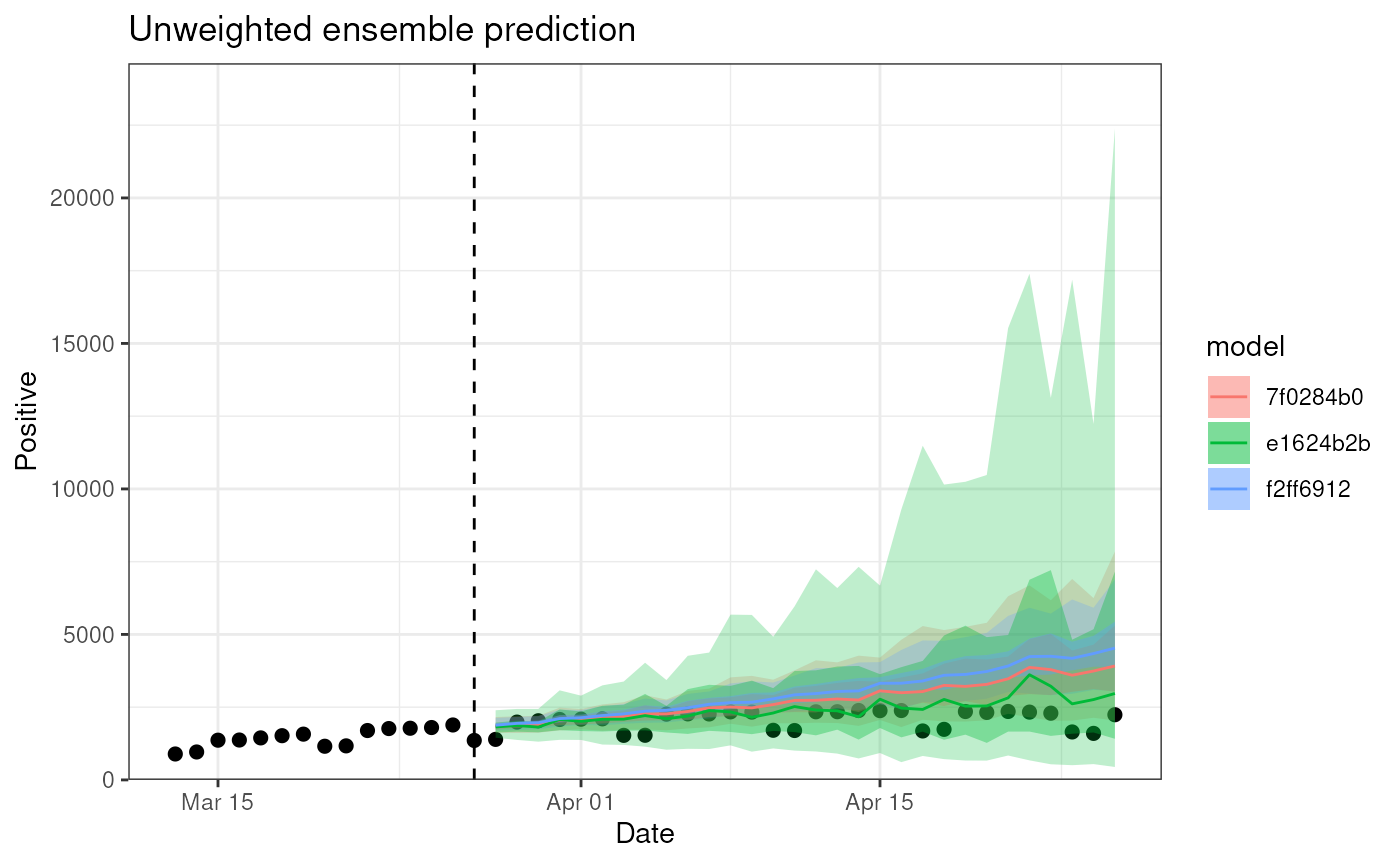
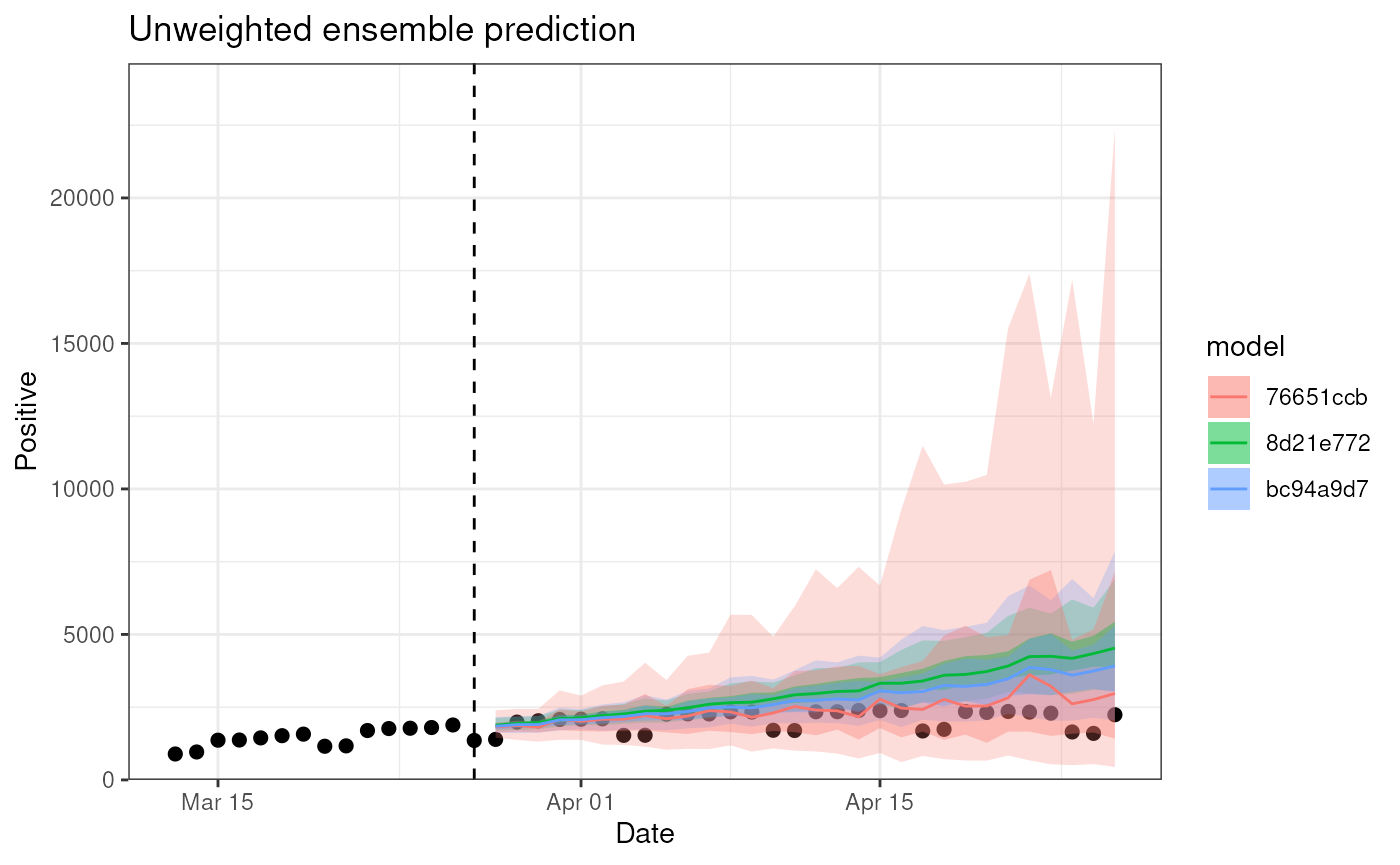
Deploying to gh-pages from @ ssi-dk/diseasy@3bf17232b9eb8c1114de46036d7c715ef52b2b88 🚀

Changed region(s): [[0.3379, 0.2185, 0.7986, 0.9052], [0.8907, 0.4994, 0.9829, 0.5931], [0.9214, 0.437, 0.9829, 0.4682]]

diff --git a/articles/SEIR-initialisation.html b/articles/SEIR-initialisation.html
@@ -424,16 +424,16 @@ a reduced probability of testing during weekends.</li>
 <span><span class="co">#&gt; <span style="color: #949494;"># A tibble: 1,500 × 6</span></span></span>
 <span><span class="co">#&gt;    date       age_group variant n_infected n_positive_simple n_positive</span></span>
 <span><span class="co">#&gt;    <span style="color: #949494; font-style: italic;">&lt;date&gt;</span>     <span style="color: #949494; font-style: italic;">&lt;chr&gt;</span>     <span style="color: #949494; font-style: italic;">&lt;chr&gt;</span>        <span style="color: #949494; font-style: italic;">&lt;dbl&gt;</span>             <span style="color: #949494; font-style: italic;">&lt;dbl&gt;</span>      <span style="color: #949494; font-style: italic;">&lt;dbl&gt;</span></span></span>
-<span><span class="co">#&gt; <span style="color: #BCBCBC;"> 1</span> 2020-01-03 60+       WT            17.2                 7          7</span></span>
-<span><span class="co">#&gt; <span style="color: #BCBCBC;"> 2</span> 2020-01-04 60+       WT            36.8                26         23</span></span>
-<span><span class="co">#&gt; <span style="color: #BCBCBC;"> 3</span> 2020-01-05 60+       WT            49.1                26         19</span></span>
-<span><span class="co">#&gt; <span style="color: #BCBCBC;"> 4</span> 2020-01-06 60+       WT            57.4                34         39</span></span>
-<span><span class="co">#&gt; <span style="color: #BCBCBC;"> 5</span> 2020-01-07 60+       WT            64.4                47         47</span></span>
-<span><span class="co">#&gt; <span style="color: #BCBCBC;"> 6</span> 2020-01-08 60+       WT            71.6                44         47</span></span>
-<span><span class="co">#&gt; <span style="color: #BCBCBC;"> 7</span> 2020-01-09 60+       WT            79.2                55         59</span></span>
-<span><span class="co">#&gt; <span style="color: #BCBCBC;"> 8</span> 2020-01-10 60+       WT            87.3                61         64</span></span>
-<span><span class="co">#&gt; <span style="color: #BCBCBC;"> 9</span> 2020-01-11 60+       WT            96.0                59         47</span></span>
-<span><span class="co">#&gt; <span style="color: #BCBCBC;">10</span> 2020-01-12 60+       WT           105.                 83         67</span></span>
+<span><span class="co">#&gt; <span style="color: #BCBCBC;"> 1</span> 2020-01-03 30-59     WT            64.2                37         41</span></span>
+<span><span class="co">#&gt; <span style="color: #BCBCBC;"> 2</span> 2020-01-04 30-59     WT           136.                 85         64</span></span>
+<span><span class="co">#&gt; <span style="color: #BCBCBC;"> 3</span> 2020-01-05 30-59     WT           179.                107         79</span></span>
+<span><span class="co">#&gt; <span style="color: #BCBCBC;"> 4</span> 2020-01-06 30-59     WT           203.                136        138</span></span>
+<span><span class="co">#&gt; <span style="color: #BCBCBC;"> 5</span> 2020-01-07 30-59     WT           221.                137        144</span></span>
+<span><span class="co">#&gt; <span style="color: #BCBCBC;"> 6</span> 2020-01-08 30-59     WT           239.                159        169</span></span>
+<span><span class="co">#&gt; <span style="color: #BCBCBC;"> 7</span> 2020-01-09 30-59     WT           257.                170        181</span></span>
+<span><span class="co">#&gt; <span style="color: #BCBCBC;"> 8</span> 2020-01-10 30-59     WT           278.                188        196</span></span>
+<span><span class="co">#&gt; <span style="color: #BCBCBC;"> 9</span> 2020-01-11 30-59     WT           301.                203        159</span></span>
+<span><span class="co">#&gt; <span style="color: #BCBCBC;">10</span> 2020-01-12 30-59     WT           325.                198        142</span></span>
 <span><span class="co">#&gt; <span style="color: #949494;"># ℹ 1,490 more rows</span></span></span></code></pre></div>
 <div class="sourceCode" id="cb5"><pre class="downlit sourceCode r">
 <code class="sourceCode R"><span><span class="co"># Visualise the example data</span></span>
@@ -824,7 +824,7 @@ model predictions may diminish.</p>
 </div>
 
 <div class="pkgdown-footer-right">
-  <p>Site built with <a href="https://pkgdown.r-lib.org/" class="external-link">pkgdown</a> 2.2.0.</p>
+  <p>Site built with <a href="https://pkgdown.r-lib.org/" class="external-link">pkgdown</a> 2.2.1.</p>
 </div>
 
     </footer>

diff --git a/articles/diseasy-immunity.html b/articles/diseasy-immunity.html
@@ -135,7 +135,7 @@ the following code.</p>
 <span><span class="co">#&gt; $infection</span></span>
 <span><span class="co">#&gt; function (t) </span></span>
 <span><span class="co">#&gt; 1</span></span>
-<span><span class="co">#&gt; &lt;environment: 0x563426575e30&gt;</span></span>
+<span><span class="co">#&gt; &lt;environment: 0x55c007ba2438&gt;</span></span>
 <span><span class="co">#&gt; attr(,"name")</span></span>
 <span><span class="co">#&gt; [1] "no_waning"</span></span></code></pre></div>
 <p>This returns a <code>named list()</code> where the named target are
@@ -173,7 +173,7 @@ given &lt;code&gt;&lt;a href="../reference/DiseasyImmunity.html"&gt;?DiseasyImmu
 <span><span class="co">#&gt; $infection</span></span>
 <span><span class="co">#&gt; function (t) </span></span>
 <span><span class="co">#&gt; exp(-(t - time_scale)/shape)/(1 + exp(-(t - time_scale)/shape))</span></span>
-<span><span class="co">#&gt; &lt;environment: 0x563427c7ae38&gt;</span></span>
+<span><span class="co">#&gt; &lt;environment: 0x55c0092b11f0&gt;</span></span>
 <span><span class="co">#&gt; attr(,"name")</span></span>
 <span><span class="co">#&gt; [1] "sigmoidal_waning"</span></span>
 <span><span class="co">#&gt; attr(,"dots")</span></span>
@@ -218,7 +218,7 @@ identification. Default is “custom_waning”.</li>
 <span><span class="co">#&gt; $hospitalisation</span></span>
 <span><span class="co">#&gt; function (t) </span></span>
 <span><span class="co">#&gt; 0.8 * exp(-(t/time_scale)^2) + 0.2</span></span>
-<span><span class="co">#&gt; &lt;environment: 0x563428a48b48&gt;</span></span>
+<span><span class="co">#&gt; &lt;environment: 0x55c00a07e860&gt;</span></span>
 <span><span class="co">#&gt; attr(,"name")</span></span>
 <span><span class="co">#&gt; [1] "gaussian_waning"</span></span>
 <span><span class="co">#&gt; attr(,"dots")</span></span>
@@ -256,8 +256,8 @@ additional arguments.</p>
 <span><span class="co">#&gt; $infection</span></span>
 <span><span class="co">#&gt; function (t) </span></span>
 <span><span class="co">#&gt; exp(-(t - time_scale)/shape)/(1 + exp(-(t - time_scale)/shape))</span></span>
-<span><span class="co">#&gt; &lt;bytecode: 0x563429e456d8&gt;</span></span>
-<span><span class="co">#&gt; &lt;environment: 0x56342994ddb8&gt;</span></span>
+<span><span class="co">#&gt; &lt;bytecode: 0x55c00b47afd0&gt;</span></span>
+<span><span class="co">#&gt; &lt;environment: 0x55c00af7f800&gt;</span></span>
 <span><span class="co">#&gt; attr(,"name")</span></span>
 <span><span class="co">#&gt; [1] "sigmoidal_waning"</span></span>
 <span><span class="co">#&gt; attr(,"dots")</span></span>
@@ -275,7 +275,7 @@ additional arguments.</p>
 <span><span class="co">#&gt; $hospitalisation</span></span>
 <span><span class="co">#&gt; function (t) </span></span>
 <span><span class="co">#&gt; 0.8 * exp(-(t/time_scale)^2) + 0.2</span></span>
-<span><span class="co">#&gt; &lt;environment: 0x56342a5ebc30&gt;</span></span>
+<span><span class="co">#&gt; &lt;environment: 0x55c00bc1f868&gt;</span></span>
 <span><span class="co">#&gt; attr(,"name")</span></span>
 <span><span class="co">#&gt; [1] "gaussian_waning"</span></span>
 <span><span class="co">#&gt; attr(,"dots")</span></span>
@@ -299,7 +299,7 @@ targets in the current models.</p>
 <span><span class="co">#&gt; $infection</span></span>
 <span><span class="co">#&gt; function (t) </span></span>
 <span><span class="co">#&gt; exp(-(t - time_scale)/shape)/(1 + exp(-(t - time_scale)/shape))</span></span>
-<span><span class="co">#&gt; &lt;environment: 0x56342994ddb8&gt;</span></span>
+<span><span class="co">#&gt; &lt;environment: 0x55c00af7f800&gt;</span></span>
 <span><span class="co">#&gt; attr(,"name")</span></span>
 <span><span class="co">#&gt; [1] "sigmoidal_waning"</span></span>
 <span><span class="co">#&gt; attr(,"dots")</span></span>
@@ -310,7 +310,7 @@ targets in the current models.</p>
 <span><span class="co">#&gt; $hospitalisation</span></span>
 <span><span class="co">#&gt; function (t) </span></span>
 <span><span class="co">#&gt; 0.8 * exp(-(t/time_scale)^2) + 0.2</span></span>
-<span><span class="co">#&gt; &lt;environment: 0x56342a5ebc30&gt;</span></span>
+<span><span class="co">#&gt; &lt;environment: 0x55c00bc1f868&gt;</span></span>
 <span><span class="co">#&gt; attr(,"name")</span></span>
 <span><span class="co">#&gt; [1] "gaussian_waning"</span></span>
 <span><span class="co">#&gt; attr(,"dots")</span></span>
@@ -518,7 +518,7 @@ hospitalisation targets defined earlier, which will be approximated.</p>
 <span><span class="co">#&gt; [1] 0</span></span>
 <span><span class="co">#&gt; </span></span>
 <span><span class="co">#&gt; $execution_time</span></span>
-<span><span class="co">#&gt; [1] "1M 12.2756991386414S"</span></span>
+<span><span class="co">#&gt; [1] "1M 30.012948513031S"</span></span>
 <span><span class="co">#&gt; </span></span>
 <span><span class="co">#&gt; attr(,"class")</span></span>
 <span><span class="co">#&gt; [1] "ucminf"</span></span>
@@ -645,7 +645,7 @@ For more examples, see the optimisation vignette
 </div>
 
 <div class="pkgdown-footer-right">
-  <p>Site built with <a href="https://pkgdown.r-lib.org/" class="external-link">pkgdown</a> 2.2.0.</p>
+  <p>Site built with <a href="https://pkgdown.r-lib.org/" class="external-link">pkgdown</a> 2.2.1.</p>
 </div>
 
     </footer>

diff --git a/articles/creating-ensembles.html b/articles/creating-ensembles.html
@@ -194,7 +194,7 @@ instances which we give the class <code>DiseasyEnsemble</code>.</p>
 functions to get a quick overview of the ensemble.</p>
 <div class="sourceCode" id="cb3"><pre class="downlit sourceCode r">
 <code class="sourceCode R"><span><span class="fu"><a href="../reference/print.html">print</a></span><span class="op">(</span><span class="va">ensemble</span><span class="op">)</span></span>
-<span><span class="co">#&gt; DiseasyEnsemble: DiseasyModelG1 (hash: e1624), DiseasyModelG1 (hash: 7f028), DiseasyModelG1 (hash: f2ff6)</span></span></code></pre></div>
+<span><span class="co">#&gt; DiseasyEnsemble: DiseasyModelG1 (hash: 76651), DiseasyModelG1 (hash: bc94a), DiseasyModelG1 (hash: 8d21e)</span></span></code></pre></div>
 <div class="sourceCode" id="cb4"><pre class="downlit sourceCode r">
 <code class="sourceCode R"><span><span class="fu"><a href="https://rdrr.io/r/base/summary.html" class="external-link">summary</a></span><span class="op">(</span><span class="va">ensemble</span><span class="op">)</span></span>
 <span><span class="co">#&gt; DiseasyEnsemble consisting of:</span></span>
@@ -213,12 +213,12 @@ least specify the following:</p>
 <span><span class="co">#&gt; <span style="color: #949494;"># A tibble: 6 × 5</span></span></span>
 <span><span class="co">#&gt;   date       n_positive realisation_id weight model                           </span></span>
 <span><span class="co">#&gt;   <span style="color: #949494; font-style: italic;">&lt;date&gt;</span>          <span style="color: #949494; font-style: italic;">&lt;dbl&gt;</span> <span style="color: #949494; font-style: italic;">&lt;chr&gt;</span>           <span style="color: #949494; font-style: italic;">&lt;dbl&gt;</span> <span style="color: #949494; font-style: italic;">&lt;chr&gt;</span>                           </span></span>
-<span><span class="co">#&gt; <span style="color: #BCBCBC;">1</span> 2021-03-28      <span style="text-decoration: underline;">2</span>132. 1                   1 e1624b2b5c5f772a3d6d5694af2c57b0</span></span>
-<span><span class="co">#&gt; <span style="color: #BCBCBC;">2</span> 2021-03-29      <span style="text-decoration: underline;">1</span>719. 1                   1 e1624b2b5c5f772a3d6d5694af2c57b0</span></span>
-<span><span class="co">#&gt; <span style="color: #BCBCBC;">3</span> 2021-03-30      <span style="text-decoration: underline;">2</span>432. 1                   1 e1624b2b5c5f772a3d6d5694af2c57b0</span></span>
-<span><span class="co">#&gt; <span style="color: #BCBCBC;">4</span> 2021-03-31      <span style="text-decoration: underline;">2</span>555. 1                   1 e1624b2b5c5f772a3d6d5694af2c57b0</span></span>
-<span><span class="co">#&gt; <span style="color: #BCBCBC;">5</span> 2021-04-01      <span style="text-decoration: underline;">2</span>163. 1                   1 e1624b2b5c5f772a3d6d5694af2c57b0</span></span>
-<span><span class="co">#&gt; <span style="color: #BCBCBC;">6</span> 2021-04-02      <span style="text-decoration: underline;">1</span>253. 1                   1 e1624b2b5c5f772a3d6d5694af2c57b0</span></span></code></pre></div>
+<span><span class="co">#&gt; <span style="color: #BCBCBC;">1</span> 2021-03-28      <span style="text-decoration: underline;">2</span>132. 1                   1 76651ccb60f719f739d6292354ceeeb9</span></span>
+<span><span class="co">#&gt; <span style="color: #BCBCBC;">2</span> 2021-03-29      <span style="text-decoration: underline;">1</span>719. 1                   1 76651ccb60f719f739d6292354ceeeb9</span></span>
+<span><span class="co">#&gt; <span style="color: #BCBCBC;">3</span> 2021-03-30      <span style="text-decoration: underline;">2</span>432. 1                   1 76651ccb60f719f739d6292354ceeeb9</span></span>
+<span><span class="co">#&gt; <span style="color: #BCBCBC;">4</span> 2021-03-31      <span style="text-decoration: underline;">2</span>555. 1                   1 76651ccb60f719f739d6292354ceeeb9</span></span>
+<span><span class="co">#&gt; <span style="color: #BCBCBC;">5</span> 2021-04-01      <span style="text-decoration: underline;">2</span>163. 1                   1 76651ccb60f719f739d6292354ceeeb9</span></span>
+<span><span class="co">#&gt; <span style="color: #BCBCBC;">6</span> 2021-04-02      <span style="text-decoration: underline;">1</span>253. 1                   1 76651ccb60f719f739d6292354ceeeb9</span></span></code></pre></div>
 <div class="sourceCode" id="cb6"><pre class="downlit sourceCode r">
 <code class="sourceCode R"><span><span class="fu"><a href="../reference/plot.html">plot</a></span><span class="op">(</span><span class="va">ensemble</span>, observable <span class="op">=</span> <span class="st">"n_positive"</span>, prediction_length <span class="op">=</span> <span class="fl">30</span><span class="op">)</span></span></code></pre></div>
 <p><img src="creating-ensembles_files/figure-html/unnamed-chunk-7-1.png" class="r-plt" alt="Plot of the ensemble predictions. Shaded area is ensemble quantiles with observations as points." width="700"></p>
@@ -297,7 +297,7 @@ parameter settings from before.</p>
 models:</p>
 <div class="sourceCode" id="cb11"><pre class="downlit sourceCode r">
 <code class="sourceCode R"><span><span class="fu"><a href="../reference/print.html">print</a></span><span class="op">(</span><span class="va">ensemble</span><span class="op">)</span></span>
-<span><span class="co">#&gt; DiseasyEnsemble: DiseasyModelG0 (hash: 853b0), DiseasyModelG0 (hash: 63197), DiseasyModelG0 (hash: 6bfd8), DiseasyModelG1 (hash: e1624), DiseasyModelG1 (hash: 7f028)</span></span></code></pre></div>
+<span><span class="co">#&gt; DiseasyEnsemble: DiseasyModelG0 (hash: 328f3), DiseasyModelG0 (hash: c9a7c), DiseasyModelG0 (hash: b859d), DiseasyModelG1 (hash: 76651), DiseasyModelG1 (hash: bc94a)</span></span></code></pre></div>
 <div class="sourceCode" id="cb12"><pre class="downlit sourceCode r">
 <code class="sourceCode R"><span><span class="fu"><a href="https://rdrr.io/r/base/summary.html" class="external-link">summary</a></span><span class="op">(</span><span class="va">ensemble</span><span class="op">)</span></span>
 <span><span class="co">#&gt; DiseasyEnsemble consisting of:</span></span>
@@ -447,7 +447,7 @@ structurally different models.</p>
 </div>
 
 <div class="pkgdown-footer-right">
-  <p>Site built with <a href="https://pkgdown.r-lib.org/" class="external-link">pkgdown</a> 2.2.0.</p>
+  <p>Site built with <a href="https://pkgdown.r-lib.org/" class="external-link">pkgdown</a> 2.2.1.</p>
 </div>
 
     </footer>

diff --git a/articles/SEIR-implementation.html b/articles/SEIR-implementation.html
@@ -860,11 +860,11 @@ demographic groups and one variant.</p>
 <span>  check <span class="op">=</span> <span class="st">"equal"</span>, times <span class="op">=</span> <span class="fl">1000L</span></span>
 <span><span class="op">)</span></span>
 <span><span class="co">#&gt; Unit: microseconds</span></span>
-<span><span class="co">#&gt;                expr    min      lq      mean  median      uq      max neval</span></span>
-<span><span class="co">#&gt;      purrr::map_dbl 25.708 27.7020 29.850056 28.5830 29.7610  115.686  1000</span></span>
-<span><span class="co">#&gt;              sapply 13.065 13.6905 14.811356 14.1065 14.9075   37.850  1000</span></span>
-<span><span class="co">#&gt;  sapply - USE.NAMES 13.114 13.7050 16.993642 14.0970 14.8125 2154.609  1000</span></span>
-<span><span class="co">#&gt;              vapply  4.950  5.4500  5.798446  5.6600  5.8665   21.139  1000</span></span></code></pre></div>
+<span><span class="co">#&gt;                expr    min     lq      mean  median      uq      max neval</span></span>
+<span><span class="co">#&gt;      purrr::map_dbl 24.787 26.840 28.948996 28.1120 29.2895  126.596  1000</span></span>
+<span><span class="co">#&gt;              sapply 12.533 13.124 14.092304 13.5350 14.4770   35.125  1000</span></span>
+<span><span class="co">#&gt;  sapply - USE.NAMES 12.613 13.154 16.315113 13.5550 14.4870 2141.407  1000</span></span>
+<span><span class="co">#&gt;              vapply  4.659  5.150  5.508243  5.4005  5.6310   27.682  1000</span></span></code></pre></div>
 <p>Note, that the best performing function in this case is
 <code><a href="https://rdrr.io/r/base/lapply.html" class="external-link">vapply()</a></code>.</p>
 </div>
@@ -881,7 +881,7 @@ demographic groups and one variant.</p>
 </div>
 
 <div class="pkgdown-footer-right">
-  <p>Site built with <a href="https://pkgdown.r-lib.org/" class="external-link">pkgdown</a> 2.2.0.</p>
+  <p>Site built with <a href="https://pkgdown.r-lib.org/" class="external-link">pkgdown</a> 2.2.1.</p>
 </div>
 
     </footer>

diff --git a/reference/hypoexponential.html b/reference/hypoexponential.html
@@ -145,11 +145,11 @@ shape parameter</p></dd>
 <span class="r-out co"><span class="r-pr">#&gt;</span> [1] 0.6931472</span>
 <span class="r-in"><span></span></span>
 <span class="r-in"><span>  <span class="fu">rhypo</span><span class="op">(</span><span class="fl">10</span>, shape <span class="op">=</span> <span class="fl">2</span><span class="op">)</span></span></span>
-<span class="r-out co"><span class="r-pr">#&gt;</span>  [1] 0.4012368 0.8040166 0.2945731 4.2924239 1.8912957 0.8239756 3.6207310</span>
-<span class="r-out co"><span class="r-pr">#&gt;</span>  [8] 0.7300902 0.6926275 0.7906260</span>
+<span class="r-out co"><span class="r-pr">#&gt;</span>  [1] 1.0827773 3.7110874 0.8243757 3.3930504 1.6994250 1.9843131 3.4253901</span>
+<span class="r-out co"><span class="r-pr">#&gt;</span>  [8] 0.7189091 1.5508627 0.8891985</span>
 <span class="r-in"><span>  <span class="fu">rhypo</span><span class="op">(</span><span class="fl">10</span>, shape <span class="op">=</span> <span class="fl">2</span>, rate <span class="op">=</span> <span class="fu"><a href="https://rdrr.io/r/base/c.html" class="external-link">c</a></span><span class="op">(</span><span class="fl">1</span>, <span class="fl">2</span><span class="op">)</span><span class="op">)</span></span></span>
-<span class="r-out co"><span class="r-pr">#&gt;</span>  [1] 2.5165786 1.1710231 0.2520009 0.5403438 2.0752860 0.6105865 1.0777397</span>
-<span class="r-out co"><span class="r-pr">#&gt;</span>  [8] 0.7228366 1.4876788 0.4501569</span>
+<span class="r-out co"><span class="r-pr">#&gt;</span>  [1] 1.2761199 0.8565597 2.3733588 0.9115878 0.5887387 0.2432596 0.2491712</span>
+<span class="r-out co"><span class="r-pr">#&gt;</span>  [8] 3.6403717 2.3080628 0.5125376</span>
 </code></pre></div>
     </div>
   </main><aside class="col-md-3"><nav id="toc" aria-label="Table of contents"><h2>On this page</h2>
@@ -161,7 +161,7 @@ shape parameter</p></dd>
 </div>
 
 <div class="pkgdown-footer-right">
-  <p>Site built with <a href="https://pkgdown.r-lib.org/" class="external-link">pkgdown</a> 2.2.0.</p>
+  <p>Site built with <a href="https://pkgdown.r-lib.org/" class="external-link">pkgdown</a> 2.2.1.</p>
 </div>
 
     </footer></div>

diff --git a/reference/DiseasyEnsemble-generics.html b/reference/DiseasyEnsemble-generics.html
@@ -161,6 +161,9 @@ date, stratification and model (optional).</p>
 <span class="r-in"><span>    diseasystore <span class="op">=</span> <span class="va">DiseasystoreSeirExample</span>,</span></span>
 <span class="r-in"><span>    conn <span class="op">=</span> <span class="fu">DBI</span><span class="fu">::</span><span class="fu"><a href="https://dbi.r-dbi.org/reference/dbConnect.html" class="external-link">dbConnect</a></span><span class="op">(</span><span class="fu">duckdb</span><span class="fu">::</span><span class="fu"><a href="https://r.duckdb.org/reference/duckdb.html" class="external-link">duckdb</a></span><span class="op">(</span><span class="op">)</span><span class="op">)</span></span></span>
 <span class="r-in"><span>  <span class="op">)</span></span></span>
+<span class="r-msg co"><span class="r-pr">#&gt;</span> duckdb: caching downloaded extensions in the package library:</span>
+<span class="r-msg co"><span class="r-pr">#&gt;</span> <span style="color: #0000BB;">ℹ</span> /usr/local/lib/R/site-library/duckdb/extensions</span>
+<span class="r-msg co"><span class="r-pr">#&gt;</span> <span style="color: #0000BB;">ℹ</span> This is removed when the package is re-installed; see `?duckdb_storage` to choose a different location.</span>
 <span class="r-in"><span></span></span>
 <span class="r-in"><span>  <span class="co"># Set the reference date in the observables module</span></span></span>
 <span class="r-in"><span>  <span class="va">observables</span><span class="op">$</span><span class="fu">set_last_queryable_date</span><span class="op">(</span></span></span>
@@ -176,7 +179,7 @@ date, stratification and model (optional).</p>
 <span class="r-in"><span>  <span class="op">)</span></span></span>
 <span class="r-in"><span></span></span>
 <span class="r-in"><span>  <span class="fu"><a href="print.html">print</a></span><span class="op">(</span><span class="va">ensemble</span><span class="op">)</span></span></span>
-<span class="r-out co"><span class="r-pr">#&gt;</span> DiseasyEnsemble: DiseasyModelG0 (hash: 24256), DiseasyModelG1 (hash: 0bc52) </span>
+<span class="r-out co"><span class="r-pr">#&gt;</span> DiseasyEnsemble: DiseasyModelG0 (hash: 777b1), DiseasyModelG1 (hash: 66a67) </span>
 <span class="r-in"><span></span></span>
 <span class="r-in"><span>  <span class="fu"><a href="https://rdrr.io/r/base/summary.html" class="external-link">summary</a></span><span class="op">(</span><span class="va">ensemble</span><span class="op">)</span></span></span>
 <span class="r-out co"><span class="r-pr">#&gt;</span> DiseasyEnsemble consisting of:</span>
@@ -198,7 +201,7 @@ date, stratification and model (optional).</p>
 </div>
 
 <div class="pkgdown-footer-right">
-  <p>Site built with <a href="https://pkgdown.r-lib.org/" class="external-link">pkgdown</a> 2.2.0.</p>
+  <p>Site built with <a href="https://pkgdown.r-lib.org/" class="external-link">pkgdown</a> 2.2.1.</p>
 </div>
 
     </footer></div>

diff --git a/reference/DiseasyImmunity.html b/reference/DiseasyImmunity.html
@@ -530,7 +530,7 @@ Number of compartments to be used in the model.</p></dd>
 <span class="r-out co"><span class="r-pr">#&gt;</span> $infection</span>
 <span class="r-out co"><span class="r-pr">#&gt;</span> function (t) </span>
 <span class="r-out co"><span class="r-pr">#&gt;</span> exp(-t/time_scale)</span>
-<span class="r-out co"><span class="r-pr">#&gt;</span> &lt;environment: 0x5630f204bf60&gt;</span>
+<span class="r-out co"><span class="r-pr">#&gt;</span> &lt;environment: 0x562ecb0d3618&gt;</span>
 <span class="r-out co"><span class="r-pr">#&gt;</span> attr(,"name")</span>
 <span class="r-out co"><span class="r-pr">#&gt;</span> [1] "exponential_waning"</span>
 <span class="r-out co"><span class="r-pr">#&gt;</span> attr(,"dots")</span>
@@ -542,7 +542,7 @@ Number of compartments to be used in the model.</p></dd>
 <span class="r-out co"><span class="r-pr">#&gt;</span> $infection</span>
 <span class="r-out co"><span class="r-pr">#&gt;</span> function (t) </span>
 <span class="r-out co"><span class="r-pr">#&gt;</span> exp(-t/time_scale)</span>
-<span class="r-out co"><span class="r-pr">#&gt;</span> &lt;environment: 0x5630f204bf60&gt;</span>
+<span class="r-out co"><span class="r-pr">#&gt;</span> &lt;environment: 0x562ecb0d3618&gt;</span>
 <span class="r-out co"><span class="r-pr">#&gt;</span> attr(,"name")</span>
 <span class="r-out co"><span class="r-pr">#&gt;</span> [1] "exponential_waning"</span>
 <span class="r-out co"><span class="r-pr">#&gt;</span> attr(,"dots")</span>
@@ -563,7 +563,7 @@ Number of compartments to be used in the model.</p></dd>
 </div>
 
 <div class="pkgdown-footer-right">
-  <p>Site built with <a href="https://pkgdown.r-lib.org/" class="external-link">pkgdown</a> 2.2.0.</p>
+  <p>Site built with <a href="https://pkgdown.r-lib.org/" class="external-link">pkgdown</a> 2.2.1.</p>
 </div>
 
     </footer></div>

diff --git a/reference/hash_environment.html b/reference/hash_environment.html
@@ -97,9 +97,9 @@ A list of hashes for the environment</p>
     <div class="section level2">
     <h2 id="ref-examples">Examples<a class="anchor" aria-label="anchor" href="#ref-examples"></a></h2>
     <div class="sourceCode"><pre class="sourceCode r"><code><span class="r-in"><span>  <span class="fu">hash_environment</span><span class="op">(</span><span class="fu"><a href="https://rdrr.io/r/base/list.html" class="external-link">list</a></span><span class="op">(</span><span class="va">DiseasyActivity</span><span class="op">)</span><span class="op">)</span></span></span>
-<span class="r-out co"><span class="r-pr">#&gt;</span> [1] "fcd00deaf6ca9e080069ad0f703ce67b"</span>
+<span class="r-out co"><span class="r-pr">#&gt;</span> [1] "96c7a7601a1582ddb3e45272c865af08"</span>
 <span class="r-in"><span>  <span class="fu">hash_environment</span><span class="op">(</span><span class="fu"><a href="https://rdrr.io/r/base/list.html" class="external-link">list</a></span><span class="op">(</span><span class="va">mtcars</span>, <span class="va">iris</span><span class="op">)</span><span class="op">)</span></span></span>
-<span class="r-out co"><span class="r-pr">#&gt;</span> [1] "d0487363db4e6cc64fdb740cb6617fc0" "34844aba7bde36f5a34f6d8e39803508"</span>
+<span class="r-out co"><span class="r-pr">#&gt;</span> [1] "6755d143ff87b73a1196c186cec7e86a" "74e8e3b3ccea26fe2b0e55a9b644d8e0"</span>
 </code></pre></div>
     </div>
   </main><aside class="col-md-3"><nav id="toc" aria-label="Table of contents"><h2>On this page</h2>
@@ -111,7 +111,7 @@ A list of hashes for the environment</p>
 </div>
 
 <div class="pkgdown-footer-right">
-  <p>Site built with <a href="https://pkgdown.r-lib.org/" class="external-link">pkgdown</a> 2.2.0.</p>
+  <p>Site built with <a href="https://pkgdown.r-lib.org/" class="external-link">pkgdown</a> 2.2.1.</p>
 </div>
 
     </footer></div>

diff --git a/articles/diseasy-model-ode.html b/articles/diseasy-model-ode.html
@@ -308,7 +308,7 @@ infection:</p>
 <span><span class="co">#&gt; $infection</span></span>
 <span><span class="co">#&gt; function (t) </span></span>
 <span><span class="co">#&gt; exp(-t/time_scale)</span></span>
-<span><span class="co">#&gt; &lt;environment: 0x55b7d8208860&gt;</span></span>
+<span><span class="co">#&gt; &lt;environment: 0x55b9054c13d8&gt;</span></span>
 <span><span class="co">#&gt; attr(,"name")</span></span>
 <span><span class="co">#&gt; [1] "exponential_waning"</span></span>
 <span><span class="co">#&gt; attr(,"dots")</span></span>
@@ -819,7 +819,7 @@ model.</p>
 </div>
 
 <div class="pkgdown-footer-right">
-  <p>Site built with <a href="https://pkgdown.r-lib.org/" class="external-link">pkgdown</a> 2.2.0.</p>
+  <p>Site built with <a href="https://pkgdown.r-lib.org/" class="external-link">pkgdown</a> 2.2.1.</p>
 </div>
 
     </footer>

diff --git a/reference/combineasy.html b/reference/combineasy.html
@@ -120,7 +120,7 @@ The combination of parameters to set in the model instances (generated by <code>
 <span class="r-in"><span>  <span class="op">)</span></span></span>
 <span class="r-in"><span></span></span>
 <span class="r-in"><span>  <span class="fu"><a href="print.html">print</a></span><span class="op">(</span><span class="va">ensemble</span><span class="op">)</span></span></span>
-<span class="r-out co"><span class="r-pr">#&gt;</span> DiseasyEnsemble: DiseasyModelG1 (hash: edd05) </span>
+<span class="r-out co"><span class="r-pr">#&gt;</span> DiseasyEnsemble: DiseasyModelG1 (hash: 6044a) </span>
 <span class="r-in"><span></span></span>
 <span class="r-in"><span>  <span class="fu"><a href="https://rdrr.io/r/base/summary.html" class="external-link">summary</a></span><span class="op">(</span><span class="va">ensemble</span><span class="op">)</span></span></span>
 <span class="r-out co"><span class="r-pr">#&gt;</span> DiseasyEnsemble consisting of:</span>
@@ -138,7 +138,7 @@ The combination of parameters to set in the model instances (generated by <code>
 </div>
 
 <div class="pkgdown-footer-right">
-  <p>Site built with <a href="https://pkgdown.r-lib.org/" class="external-link">pkgdown</a> 2.2.0.</p>
+  <p>Site built with <a href="https://pkgdown.r-lib.org/" class="external-link">pkgdown</a> 2.2.1.</p>
 </div>
 
     </footer></div>

diff --git a/reference/plot.html b/reference/plot.html
@@ -106,7 +106,7 @@ See the <code>$plot()</code> method for each module</p></dd>
 <span class="r-out co"><span class="r-pr">#&gt;</span> $hospitalisation</span>
 <span class="r-out co"><span class="r-pr">#&gt;</span> function (t) </span>
 <span class="r-out co"><span class="r-pr">#&gt;</span> exp(-t/time_scale)</span>
-<span class="r-out co"><span class="r-pr">#&gt;</span> &lt;environment: 0x5630e1a47c70&gt;</span>
+<span class="r-out co"><span class="r-pr">#&gt;</span> &lt;environment: 0x562ec293e1d0&gt;</span>
 <span class="r-out co"><span class="r-pr">#&gt;</span> attr(,"name")</span>
 <span class="r-out co"><span class="r-pr">#&gt;</span> [1] "exponential_waning"</span>
 <span class="r-out co"><span class="r-pr">#&gt;</span> attr(,"dots")</span>
@@ -129,7 +129,7 @@ See the <code>$plot()</code> method for each module</p></dd>
 </div>
 
 <div class="pkgdown-footer-right">
-  <p>Site built with <a href="https://pkgdown.r-lib.org/" class="external-link">pkgdown</a> 2.2.0.</p>
+  <p>Site built with <a href="https://pkgdown.r-lib.org/" class="external-link">pkgdown</a> 2.2.1.</p>
 </div>
 
     </footer></div>

diff --git a/404.html b/404.html
@@ -103,7 +103,7 @@ Content not found. Please use links in the navbar.
 </div>
 
 <div class="pkgdown-footer-right">
-  <p>Site built with <a href="https://pkgdown.r-lib.org/" class="external-link">pkgdown</a> 2.2.0.</p>
+  <p>Site built with <a href="https://pkgdown.r-lib.org/" class="external-link">pkgdown</a> 2.2.1.</p>
 </div>
 
     </footer>